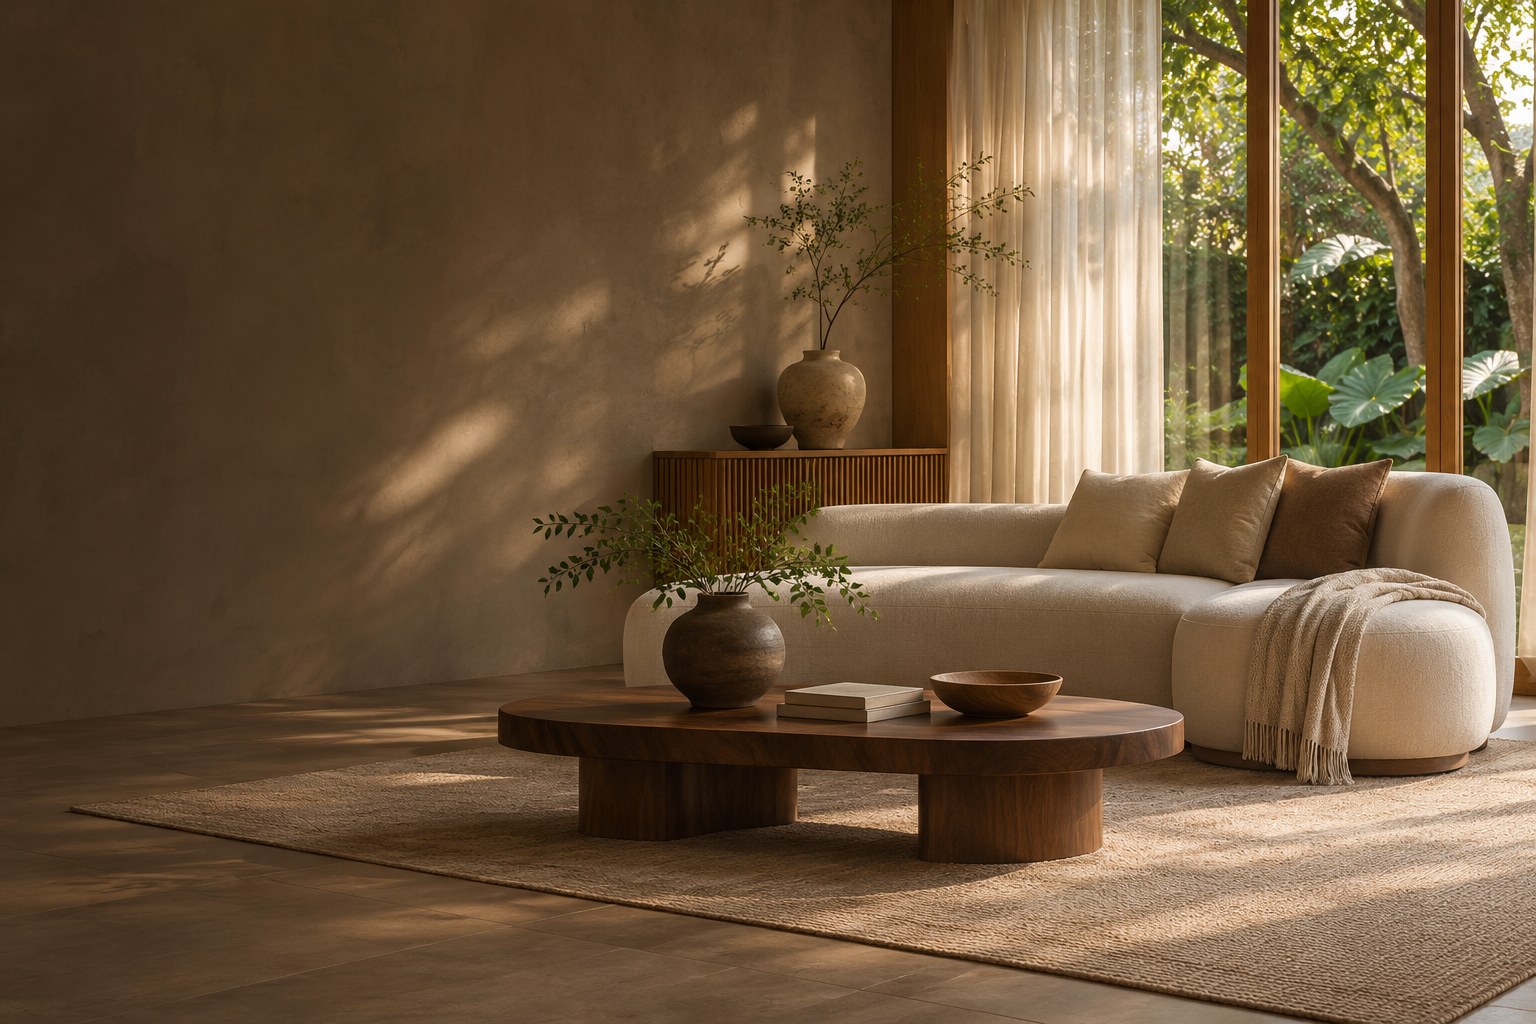
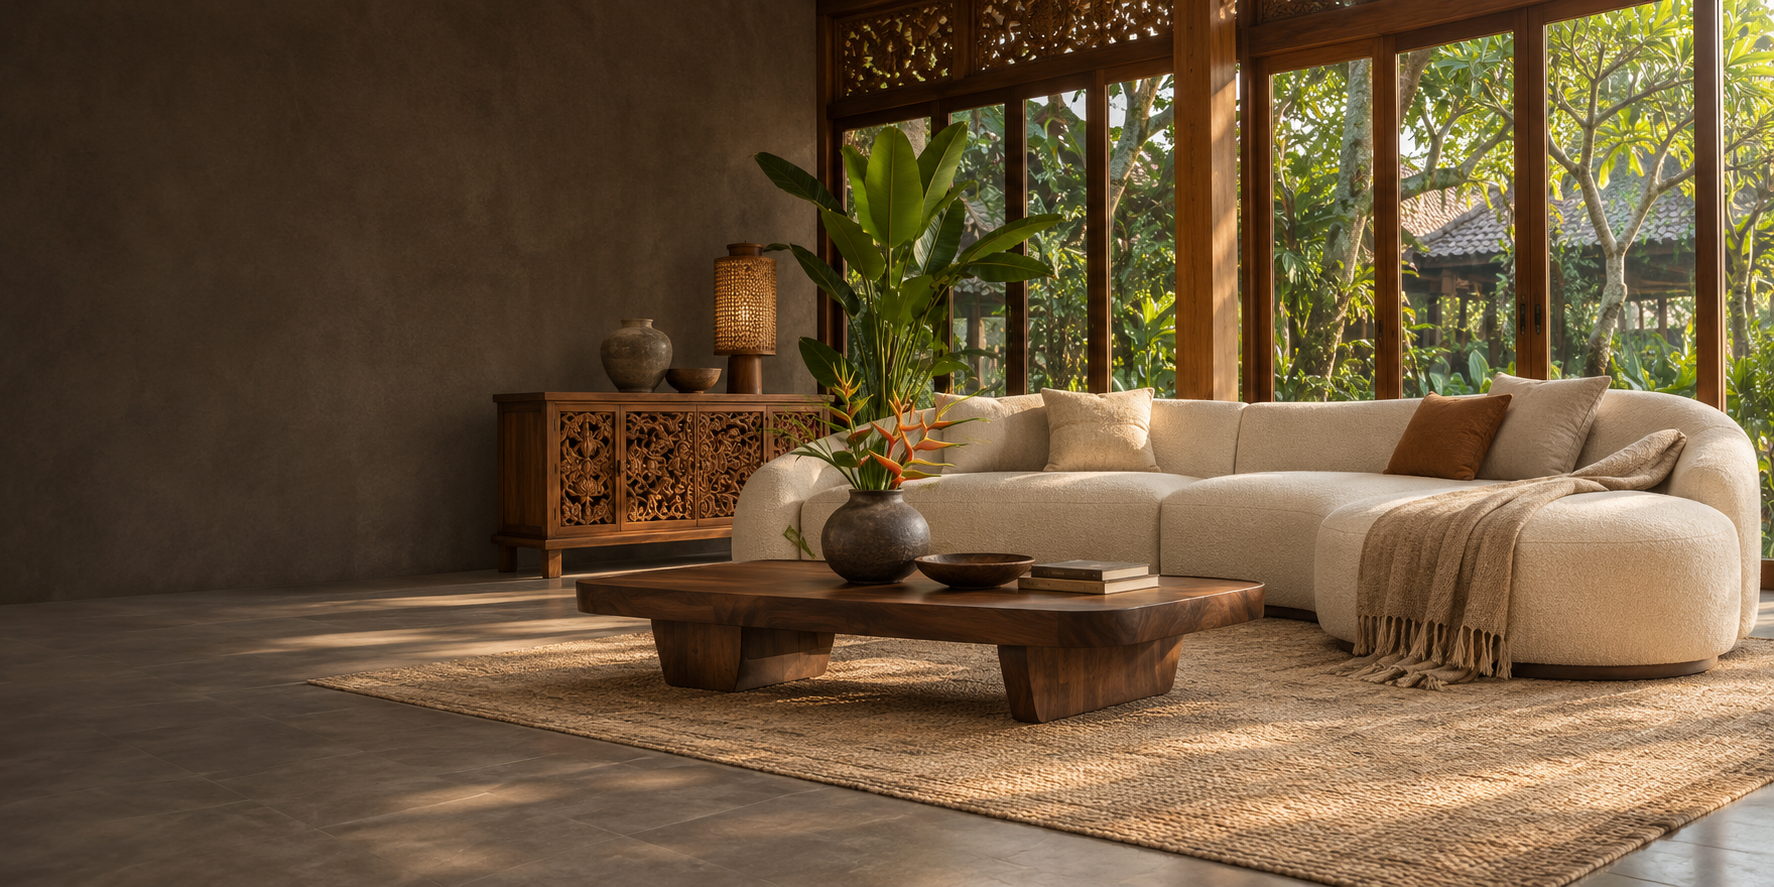
Expand page hero images to full width

diff --git a/asset/css/style.css b/asset/css/style.css
@@ -2931,7 +2931,7 @@ body:has(.contact-hero) .contact-hero-copy p {
   position: absolute;
   inset: 0;
   z-index: -1;
-  background: linear-gradient(90deg, rgba(14, 17, 20, .72), rgba(14, 17, 20, .22)), url('https://images.unsplash.com/photo-1618221195710-dd6b41faaea6?q=80&w=2000&auto=format&fit=crop') center 55% / cover no-repeat;
+  background: linear-gradient(90deg, rgba(14, 17, 20, .58), rgba(14, 17, 20, .34)), url('../images/kalea-about-hero.png') center 55% / cover no-repeat;
   content: "";
   animation: kalea-image-drift 1.5s cubic-bezier(.2,.7,.2,1) both;
 }
@@ -2951,6 +2951,122 @@ body:has(.contact-hero) .contact-hero-copy h1,
 body:has(.contact-hero) .contact-hero-copy p { opacity: 0; animation: kalea-copy-enter .8s cubic-bezier(.2,.7,.2,1) both; }
 body:has(.contact-hero) .contact-hero-copy h1 { animation-delay: .42s; }
 body:has(.contact-hero) .contact-hero-copy p { animation-delay: .62s; }
+
+/* Home navigation sits over the hero so its photo continues behind the header. */
+body:has(.hero) .site-header {
+  position: absolute;
+  inset: 0 0 auto;
+  width: 100%;
+  background: transparent;
+  backdrop-filter: none;
+  border-bottom-color: rgba(255, 255, 255, .24);
+}
+
+body:has(.hero) .site-logo,
+body:has(.hero) .site-nav a,
+body:has(.hero) .nav-toggle span {
+  color: #fff;
+}
+
+body:has(.hero) .site-nav a.nav-active,
+body:has(.hero) .site-nav a:hover {
+  color: #fff;
+  background: transparent;
+  border-bottom-color: #fff;
+}
+
+body:has(.catalog-hero, .about-hero, .contact-hero) .site-header {
+  position: absolute;
+  inset: 0 0 auto;
+  width: 100%;
+  background: transparent;
+  backdrop-filter: none;
+  border-bottom-color: rgba(255, 255, 255, .24);
+}
+
+body:has(.catalog-hero, .about-hero, .contact-hero) .site-logo,
+body:has(.catalog-hero, .about-hero, .contact-hero) .site-nav a,
+body:has(.catalog-hero, .about-hero, .contact-hero) .nav-toggle span {
+  color: #fff;
+}
+
+body:has(.catalog-hero, .about-hero, .contact-hero) .site-nav a.nav-active,
+body:has(.catalog-hero, .about-hero, .contact-hero) .site-nav a:hover {
+  color: #fff;
+  background: transparent;
+  border-bottom-color: #fff;
+}
+
+/* Keep each secondary page hero underneath the now transparent header. */
+body:has(.catalog-hero) .page { padding-top: 0; }
+body:has(.catalog-hero) .page-content { position: relative; }
+body:has(.catalog-hero) .breadcrumb {
+  position: absolute;
+  top: 84px;
+  left: 28px;
+  z-index: 3;
+  margin: 0;
+  color: rgba(255, 255, 255, .82);
+}
+body:has(.catalog-hero) .breadcrumb a { color: #fff; }
+body:has(.catalog-hero) .catalog-hero { padding-top: 112px; }
+body:has(.about-hero) .about { padding-top: 0; }
+body:has(.contact-hero) .page { padding-top: 0; }
+
+@media (max-width: 768px) {
+  body:has(.hero) .site-nav {
+    background: #fff;
+  }
+
+  body:has(.hero) .site-nav a {
+    color: #111;
+  }
+
+  body:has(.hero) .site-nav a.nav-active,
+  body:has(.hero) .site-nav a:hover {
+    color: #111;
+    border-bottom-color: #111;
+  }
+
+  body:has(.catalog-hero, .about-hero, .contact-hero) .site-nav {
+    background: #fff;
+  }
+
+  body:has(.catalog-hero, .about-hero, .contact-hero) .site-nav a {
+    color: #111;
+  }
+
+  body:has(.catalog-hero, .about-hero, .contact-hero) .site-nav a.nav-active,
+  body:has(.catalog-hero, .about-hero, .contact-hero) .site-nav a:hover {
+    color: #111;
+    border-bottom-color: #111;
+  }
+
+  body:has(.catalog-hero) .breadcrumb { top: 76px; left: 18px; }
+  body:has(.catalog-hero) .catalog-hero { padding-top: 100px; }
+}
+
+/* Wide catalog hero artwork uses a matching landscape composition and full bleed width. */
+body:has(.catalog-hero) .catalog-hero {
+  position: relative;
+  left: calc(50% - 50vw);
+  width: 100vw;
+  max-width: none;
+  min-height: clamp(600px, 78svh, 780px);
+  padding-top: 140px;
+  background-position: center;
+}
+
+body:has(.catalog-hero) .breadcrumb {
+  left: clamp(24px, 8vw, 120px);
+}
+
+@media (max-width: 768px) {
+  body:has(.catalog-hero) .catalog-hero {
+    min-height: clamp(500px, 78svh, 650px);
+    padding-top: 112px;
+  }
+}
 
 .reveal-on-scroll {
   opacity: 0;
@@ -3203,7 +3319,7 @@ body:has(.contact-hero) .contact-hero-copy p { animation-delay: .62s; }
 .cart-item-photo .product-photo img {
   width: 100%;
   height: 100%;
-  object-fit: contain;
+  object-fit: cover;
   object-position: center;
 }
 
@@ -3224,4 +3340,56 @@ body:has(.contact-hero) .contact-hero-copy p { animation-delay: .62s; }
   object-fit: contain;
   object-position: center;
   background: #ffffff;
+}
+
+/* About and contact hero artwork fills a wide, tall canvas without stretching. */
+body:has(.about-hero) .about-hero,
+body:has(.contact-hero) .contact-hero {
+  position: relative;
+  left: calc(50% - 50vw);
+  width: 100vw;
+  max-width: none;
+  height: auto;
+  min-height: clamp(560px, 76svh, 740px);
+  margin-top: 0;
+}
+
+body:has(.about-hero) .about-hero { padding-top: 140px; }
+body:has(.contact-hero) .contact-hero { overflow: visible; }
+body:has(.contact-hero) .contact-hero > img {
+  left: 50%;
+  right: auto;
+  width: 100vw;
+  max-width: none;
+  transform: translateX(-50%);
+  object-fit: cover;
+  object-position: center;
+  animation-name: kalea-contact-panorama-reveal;
+}
+body:has(.contact-hero) .contact-hero::after {
+  left: 50%;
+  right: auto;
+  width: 100vw;
+  transform: translateX(-50%);
+  background: rgba(0, 0, 0, .3);
+}
+body:has(.about-hero) .about { padding-left: 0; padding-right: 0; }
+body:has(.contact-hero) .page { padding-left: 0; padding-right: 0; }
+body:has(.contact-hero) .page-content { width: 100%; }
+body:has(.catalog-hero),
+body:has(.about-hero),
+body:has(.contact-hero) { overflow-x: clip; }
+
+@keyframes kalea-contact-panorama-reveal {
+  from { clip-path: inset(0 100% 0 0); transform: translateX(-50%) scale(1.045); }
+  to { clip-path: inset(0); transform: translateX(-50%) scale(1); }
+}
+
+@media (max-width: 768px) {
+  body:has(.about-hero) .about-hero,
+  body:has(.contact-hero) .contact-hero {
+    min-height: clamp(460px, 76svh, 620px);
+  }
+
+  body:has(.about-hero) .about-hero { padding-top: 112px; }
 }

diff --git a/kontak.html b/kontak.html
@@ -42,7 +42,7 @@
   <main class="page">
     <div class="page-content">
       <section class="contact-hero" aria-labelledby="contact-title">
-        <img src="asset/images/kalea-contact-hero.png" alt="Sofa linen Kalea dengan kaki kayu oak dalam studio bernuansa hangat">
+        <img src="asset/images/kalea-contact-hero-wide.png" alt="Ruang keluarga Kalea dengan sofa linen, furniture kayu Jepara, dan jendela taman">
         <div class="contact-hero-copy">
           <h1 id="contact-title">Kontak</h1>
           <p>Silakan hubungi kami melalui informasi di bawah ini.</p>
